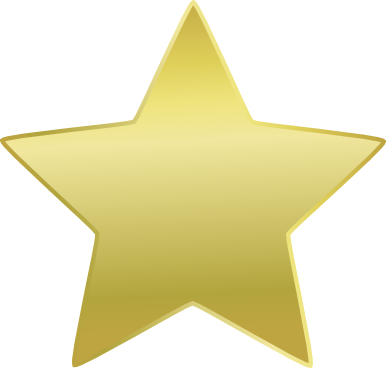
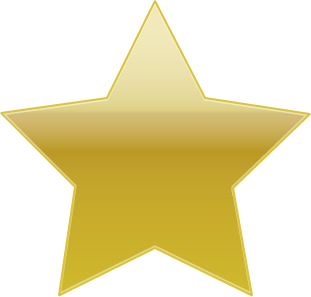
created my own star image, updated sliders
Changed display function to clear up some text

diff --git a/crawford_adam_project4/js/main.js b/crawford_adam_project4/js/main.js
@@ -206,16 +206,31 @@ var	ageGroups = ["Select", "U6", "U8", "U10", "U12", "U14", "U18"],
 					createSubLi.appendChild(createAR2Ul);
 				} else if (k === "refGrd" || k === "refYrs" || k === "refEml") {
 					var createRefLi = document.createElement('li');
-					createRefUl.appendChild(createRefLi);
-					createRefLi.innerHTML = liText;
+					if (k === "refYrs" && obj[k][1] === "10") {
+						createRefUl.appendChild(createRefLi);
+						createRefLi.innerHTML = "Years Reffing: 10 or more";
+					} else {
+						createRefUl.appendChild(createRefLi);
+						createRefLi.innerHTML = liText;
+					}
 				} else if (k === "ar1Grd" || k === "ar1Yrs" || k === "ar1Eml") {
 					var createAR1Li = document.createElement('li');
-					createAR1Ul.appendChild(createAR1Li);
-					createAR1Li.innerHTML = liText;
+					if (k === "ar1Yrs" && obj[k][1] === "10") {
+						createAR1Ul.appendChild(createAR1Li);
+						createAR1Li.innerHTML = "Years Reffing: 10 or more";
+					} else {
+						createAR1Ul.appendChild(createAR1Li);
+						createAR1Li.innerHTML = liText;
+					}
 				} else if (k === "ar2Grd" || k === "ar2Yrs" || k === "ar2Eml") {
 					var createAR2Li = document.createElement('li');
-					createAR2Ul.appendChild(createAR2Li);
-					createAR2Li.innerHTML = liText;
+					if (k === "ar2Yrs" && obj[k][1] === "10") {
+						createAR2Ul.appendChild(createAR2Li);
+						createAR2Li.innerHTML = "Years Reffing: 10 or more";
+					} else {
+						createAR2Ul.appendChild(createAR2Li);
+						createAR2Li.innerHTML = liText;
+					}
 				} else if (k === "gComp") {
 					if (obj[k][1] === "true") {
 						var createImgSublist = getID(objkey + "dataImages"),
@@ -409,13 +424,11 @@ var	ageGroups = ["Select", "U6", "U8", "U10", "U12", "U14", "U18"],
 			sliderValue = function (slider, div) {
 				var divID = getID(div);
 				if (slider.value === "0") {
-					divID.innerHTML = " Less than a year";
+					divID.innerHTML = " Less than one";
 				} else if (slider.value === "10") {
-					divID.innerHTML = " 10 or more years";
-				} else if (slider.value === "1") {
-					divID.innerHTML = slider.value + " year";
+					divID.innerHTML = " 10 or more";
 				} else {
-					divID.innerHTML = " " + slider.value + " years";
+					divID.innerHTML = " " + slider.value;
 				};
 			};
 		refslider.addEventListener("change", function(){sliderValue(refslider, "refSliderText")});
